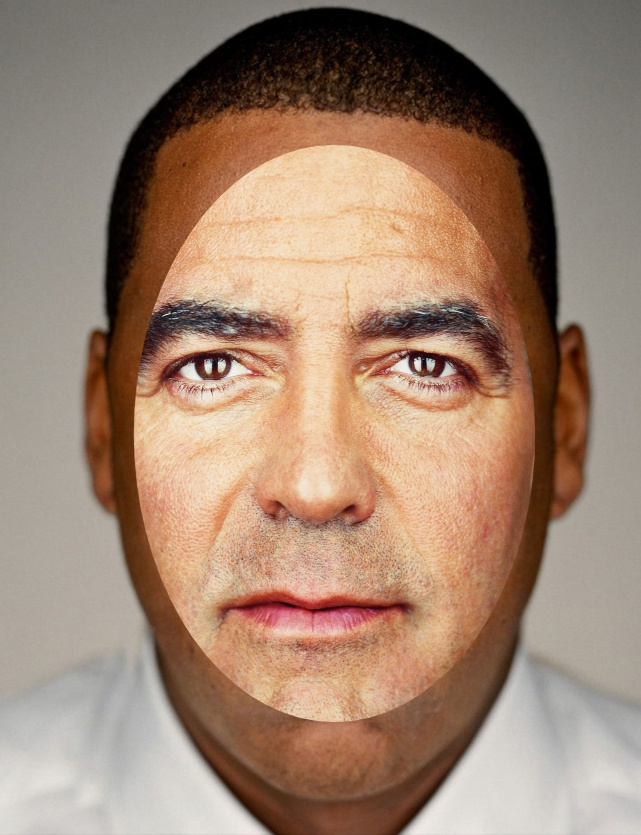
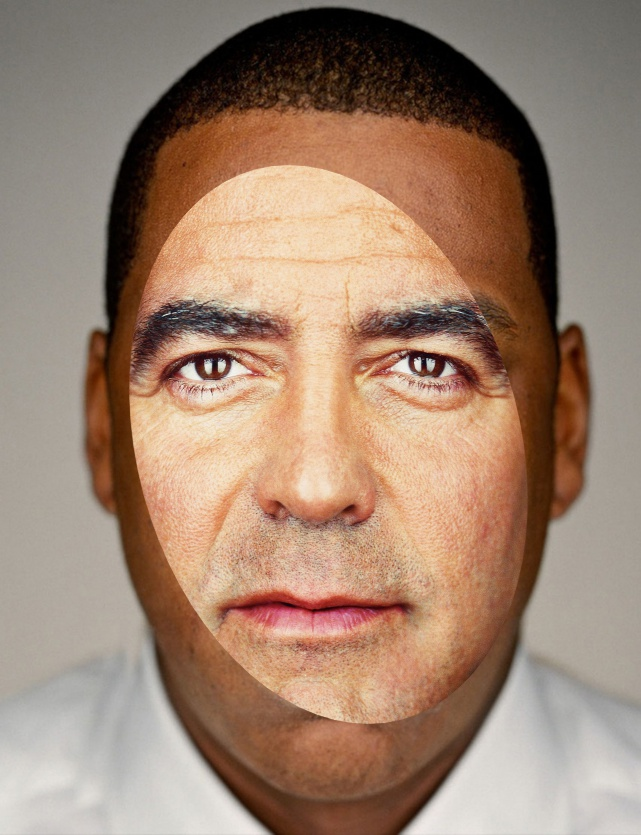
done

diff --git a/project2.py b/project2.py
@@ -135,6 +135,10 @@ def pickPoints(window, image, filename, xcoord=0):
 
     return w.points
 
+# Helper function to calculate distance between two points
+def distance(p0, p1):
+    return numpy.sqrt(numpy.square(p0[0] - p1[0]) + numpy.square(p0[1] - p1[1]))
+
 ########################################################################
 # pyramid functionality
 if sys.argv[1] == 'pyramid':
@@ -177,12 +181,13 @@ elif sys.argv[1] == 'blend':
     width = A.shape[1]
     height = A.shape[0]
 
+    # ask the user if they want to pick points on the image to specify the mask or enter values for the parameters of the mask
     print('Image A has width '+str(width)+', height '+str(height))
     while 1:
-         mode = raw_input('Enter "1" to draw an ellipse as the mask, enter "2" to choose the parameters of the ellipse: ')
+         mode = raw_input('Enter "1" to pick points to generate the mask, enter "2" to manually enter the parameters of the mask: ')
          if mode == '1' or mode == '2':
              break
-
+    # use the pickPoints function from cvk2 library to get four vertices of the mask
     if mode == '1':
         datafile = 'blend.txt'
         print('Please pick the four vertices of the ellipse in the order of top, right, bottom, left by right clicking the image.')
@@ -199,8 +204,16 @@ elif sys.argv[1] == 'blend':
         mean = (top+right+bottom+left)/4
         cx = int(mean[0])
         cy = int(mean[1])
-        ellipse_width = int(max(cx-left[0], right[0]-cx))
-        ellipse_height = int(max(cy-top[1], bottom[1]-cy))
+        ellipse_width = int(max(distance(mean, left), distance(mean, right)))
+        ellipse_height = int(max(distance(mean, top), distance(mean, bottom)))
+        angle_rad = numpy.arccos((mean[1]-top[1])/distance(mean, top))
+        if top[0]-mean[0]>0:
+            angle = angle_rad/numpy.pi*180
+        else:
+            angle = -angle_rad/numpy.pi*180
+        print(angle)
+
+    # prompt user to enter the parameters of the ellipse
     else:
         cv2.namedWindow('A')
         cv2.imshow('A', A)
@@ -214,6 +227,7 @@ elif sys.argv[1] == 'blend':
         cy = int(raw_input('Enter the y-coord of the mask(-1 for default: center of the image): '))
         ellipse_width = int(raw_input('Enter the half-width of the ellipse(-1 for default: 1/4 of the image width): '))
         ellipse_height = int(raw_input('Enter the half-height of the ellipse(-1 for default: 1/4 of the image height): '))
+        angle = int(raw_input('Enter the angle of the ellipse: '))
 
         if cx == -1:
             cx = width/2
@@ -224,7 +238,6 @@ elif sys.argv[1] == 'blend':
         if ellipse_height == -1:
             ellipse_height = height/4
 
-    angle = int(raw_input('Enter the angle of the ellipse: '))
     sigma = int(raw_input('Enter the sigma of the Gaussian blur: '))
     ksize = int(raw_input('Enter the size of the Gaussian kernel: '))
 
